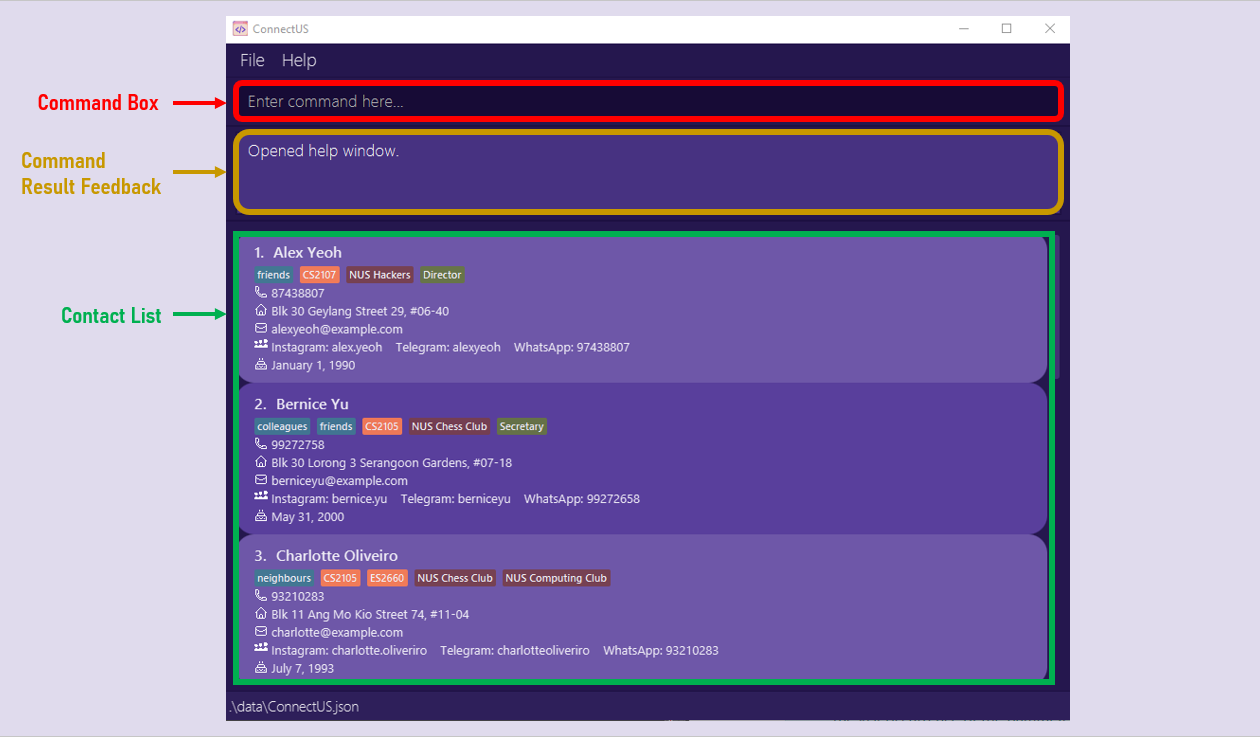
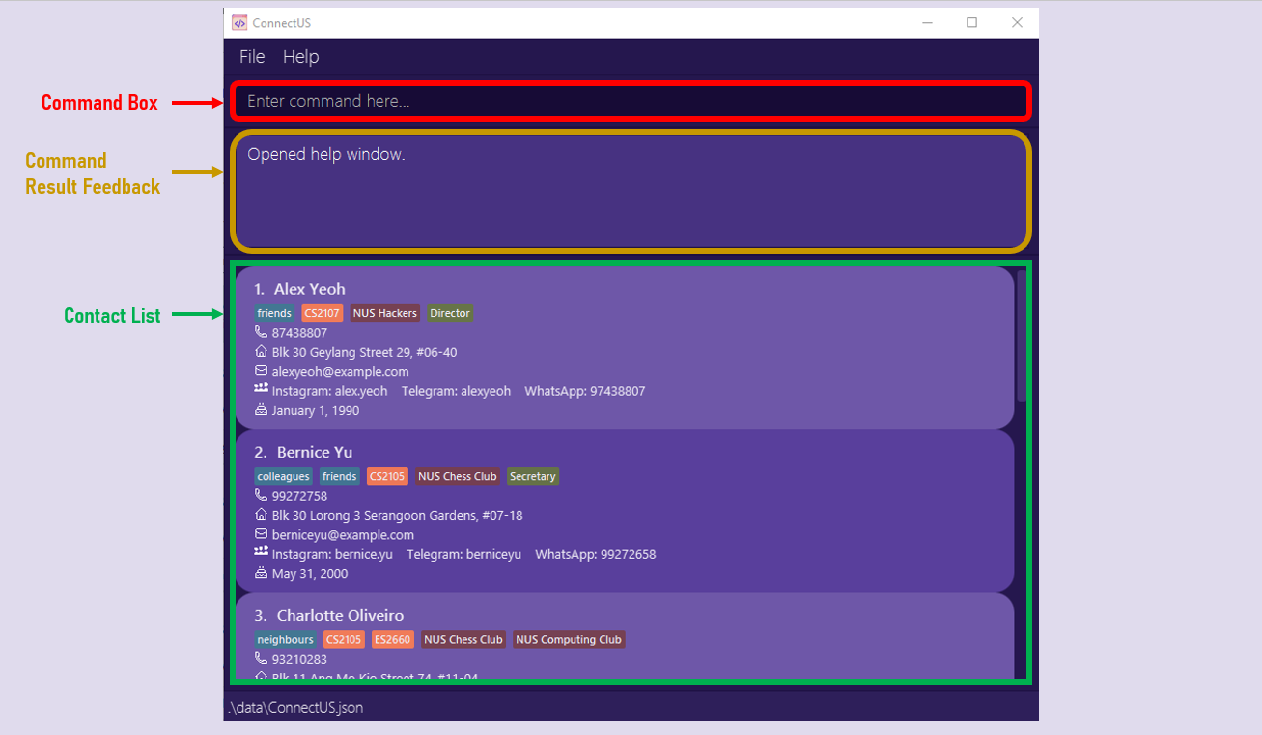
update UI and section 3 of UG

Changed region(s): [[0.0, 0.0, 1.0, 1.0], [0.0, 0.2095, 0.1238, 0.2694], [0.031, 0.1197, 0.1238, 0.1497]]

diff --git a/docs/_sass/minima/_base.scss b/docs/_sass/minima/_base.scss
@@ -105,7 +105,7 @@ li {
  * Headings
  */
 h1, h2, h3, h4, h5, h6 {
-  font-weight: $base-font-weight;
+  font-weight: $bold-font-weight;
 }
 
 

diff --git a/docs/UserGuide.md b/docs/UserGuide.md
@@ -20,6 +20,8 @@ This User Guide will provide you with an in-depth documentation for you to easil
 
 So what are you waiting for? Get ready to **Connect** with others and let **US** handle the rest!
 
+---
+
 # Table of Contents
 
 - [1. Using this guide](#1-using-this-guide)
@@ -28,7 +30,12 @@ So what are you waiting for? Get ready to **Connect** with others and let **US**
 - [2. Installation](#2-installation)
 - [3. Quick Start Guide](#3-quick-start-guide)
   - [3.1 Layout](#31-layout)
+    - [3.1.1 Command Box](#311-command-box)
+    - [3.1.2 Command Result Feedback](#312-command-result-feedback)
+    - [3.1.3 Contact List](#313-contact-list)
   - [3.2 Key Definitions](#32-key-definitions)
+    - [3.2.1 Command](#321-command)
+    - [3.2.2](#322-parameter)
   - [3.3 Command Format](#33-command-format)
   - [3.4 How to Use the CLI](#34-how-to-use-the-cli)
 - [4. Features](#4-features)
@@ -96,6 +103,8 @@ Some special notations are used throughout this guide:
 
 [↑ Back to table of contents](#table-of-contents)
 
+---
+
 # 2. Installation
 
 If you have yet to install ConnectUS, simply follow these steps to set it up:
@@ -118,6 +127,8 @@ Congratulations! You have successfully set up ConnectUS.
 
 [↑ Back to table of contents](#table-of-contents)
 
+---
+
 # 3. Quick Start Guide
 
 ## 3.1 Layout
@@ -126,9 +137,58 @@ Let's take a look at the different components in ConnectUS.<br>
 
 ![Layout](images/Layout.png)
 
+### 3.1.1 Command Box
+
+![CommandBox](images/CommandBox.png)
+
+The command box allows you to enter commands that you wish to perform. For starters, try typing the `help` command and hit enter!
+
+### 3.1.2 Command Result Feedback
+
+![CommandResultFeedback](images/CommandResultFeedback.png)
+
+The command result feedback box will provide you with a feedback message after a command is entered. For example, after typing `help`, you should see the above feedback in your ConnectUS application, along with a new Help Window!
+
+If you enter an unrecognized command or a command with the wrong format, an error message will be shown in this feedback box:<br>
+
+![CommandFeedbackInvalid](images/CommandFeedbackInvalid.png)
+
+You can then use the scroll bar below the feedback box to navigate through the feedback given.
+
+### 3.1.3 Contact List
+
+![ContactList](images/ContactList.png)
+
+The contact list shows the contacts that exist within your ConnectUS with all their registered information fields.
+
+* There is a scroll bar beside the contact list container for you to scroll through your contact list.
+* The index beside the contact name is the contact's index. It is used for certain commands such as `delete`. More details on this can be found in [Features](#4-features).
+* The list of information fields and their details can be found in [Information Fields & Prefixes](#5-information-fields--prefixes). 
+* You can also find a condensed summary table of these information fields in the [Prefix Summary](#8-prefix-summary).
+
 ## 3.2 Key Definitions
 
+### 3.2.1 Command
+
+Commands are actions that you want to perform using ConnectUS. Most commands will require user inputs, otherwise known as [parameters](#322-parameter), for ConnectUS to perform the action.
+
+### 3.2.2 Parameter
+
+Parameters are user inputs that ConnectUS requires to perform certain [commands](#321-command).
+
+Example: `n/NAME`
+
+In this case, `NAME` is the information field that you wish to input. The `n/` prefix must be used for ConnectUS to recognise that you intend on adding a `NAME` to a contact.
+
+* The list of information fields, prefixes and their details can be found in [Information Fields & Prefixes](#5-information-fields--prefixes). 
+* You can also find a condensed summary of these information fields in the [Prefix Summary](#8-prefix-summary).
+
 ## 3.3 Command Format
+
+To use ConnectUS, type the [command](#321-command) along with its [parameters](#322-parameter), if required. You can leave the parameters empty if it is optional (i.e. if it is wrapped in square brackets like this: `help [COMMAND]`).
+
+* The detailed list of commands and their command formats can be found in [Features](#4-features). 
+* You can also find a condensed summary of these commands in the [Command Summary](#7-command-summary).
 
 <div markdown="block" class="alert alert-info">
 
@@ -141,7 +201,7 @@ Let's take a look at the different components in ConnectUS.<br>
   e.g `n/NAME [b/BIRTHDAY]` can be used as `n/John Doe b/14/02/2000` or as `n/John Doe`.
 
 * Items with `…` after them can be used multiple times including zero times.<br>
-  e.g. `[mod/MODULE_CODE]…` can be used as ` ` (i.e. 0 times), `mod/CS2103T` (i.e. 1 time), `mod/CS2103T mod/CS2107` (i.e. 2 times) etc.
+  e.g. `[mod/MODULE]…` can be used as ` ` (i.e. 0 times), `mod/CS2103T` (i.e. 1 time), `mod/CS2103T mod/CS2107` (i.e. 2 times) etc.
 
 * Information fields can be in any order.<br>
   e.g. if the command specifies `n/NAME p/PHONE`, `p/PHONE n/NAME` is also acceptable.
@@ -159,21 +219,45 @@ Let's take a look at the different components in ConnectUS.<br>
 
 ## 3.4 How to Use the CLI
 
-Type the command in the command box and press Enter to execute it. e.g. typing **`help`** and pressing Enter will open the help window.<br>
+To use the [Command Line Interface (CLI)](), you can type a [command](#321-command) in the [Command Box](#311-command-box) and press Enter to execute it.e.g. typing **`help`** and pressing Enter will open the help window.<br>
    ![Command Box](images/ConnectUSCommandBox.png) <br>
-   Some example commands you can try:
 
-   * `list` : Lists all contacts.
+To familiarise yourself with ConnectUS, let's try out the `add` command! The `add` command allows you to add a new contact into the [Contact List](#313-contact-list).
 
-   * `add n/James p/12345678 e/james@example.com a/Clementi tg/itsjameshere b/14/02/2000` : Adds a contact named `James` to ConnectUS.
+**Format:** `add n/NAME [p/PHONE] [a/ADDRESS] [e/EMAIL] [tg/TELEGRAM] [ig/INSTAGRAM] [wa/WHATSAPP] [b/BIRTHDAY] [mod/MODULE]… [cca/CCA]… [major/MAJOR]… [r/REMARK]…`
 
-   * `delete 3` : Deletes the 3rd contact shown in the current list.
+**What does Format mean?**
 
-   * `clear` : Deletes all contacts.
+The first word of every command allows ConnectUS to distinguish different commands.
 
-   * `exit` : Exits the app.
+* `add` tells ConnectUS that this command is to add a new contact
+* Prefixes such as `n/` and `p/` are delimiters that allow ConnectUS to distinguish different parameters from the input that you supply
+* Information fields such as `NAME` and `PHONE` show you what you should place in each portion of the command.
 
-Refer to the [Features](#4-features) below for details of each command.
+Notice how there are square brackets `[]` surrounding certain parameters like in `[p/PHONE]`. This indicates that the parameter is **optional**, i.e. a contact can exist even if it does not have this field.
+
+Other parameters that end with `…` like in `[mod/MODULE]…` indicates that this parameter can be used multiple times.
+
+**Let's test this out!**
+
+Suppose you have a friend whom you call Lineup Larry. His phone number is 91234567, and he stays on campus in UTown Residences. His Telegram username is lineuplarry, takes the modules CS2103T and CS2101, and is in the Art Club.
+
+`NAME`: Lineup Larry<br>
+`PHONE`: 91234567<br>
+`ADDRESS`: UTown Residences<br>
+`TELEGRAM`: lineuplarry<br>
+`MODULE`: CS2103T, CS2101<br>
+`CCA`: Art Club
+
+The command you would enter into the command box would be:<br>
+`add n/Lineup Larry p/91234567 a/UTown Residences tg/lineuplarry mod/CS2103T mod/CS2101 cca/Art Club`
+
+If you have a new contact added in the Contact List as follows:<br>
+![NewContactTutorial](images/NewContactTutorial.png)
+
+Congratulations! You have successfully added your first contact!
+
+There are many other features in ConnectUS. Do refer to the [Features](#4-features) below for details on each feature and command!
 
 [↑ Back to top of section](#3-quick-start-guide)
 
@@ -244,7 +328,7 @@ Format: `add n/NAME [p/PHONE] [a/ADDRESS] [e/EMAIL] [tg/TELEGRAM] [ig/INSTAGRAM]
 
 >Adds a contact to the ConnectUS app.
  
-You can add a contact using the `add` command followed by the parameters (as shown in the format above). While the `NAME` is mandatory, the rest of the fields (i.e. `ADDRESS`, `TELEGRAM`, `MODULE_CODE` etc.) are optional. 
+You can add a contact using the `add` command followed by the parameters (as shown in the format above). While the `NAME` is mandatory, the rest of the fields (i.e. `ADDRESS`, `TELEGRAM`, `MODULE` etc.) are optional. 
 
 <div markdown="span" class="alert alert-primary">:bulb: **Tip:**<br>
 A contact can have any number of tags, modules and CCAs! (including 0)
@@ -331,7 +415,7 @@ The `delete-t` command:
 
 * All indexes (i.e. `PERSON_INDEX`, `REMARK_INDEX`, `MODULE_INDEX`, `CCA_INDEX`, `MAJOR_INDEX`) **must be a positive integer** e.g. 1, 2, 3, …
 * At least one of the optional fields must be provided (i.e. `r/REMARK_INDEX`, `mod/MODULE_INDEX`, `cca/CCA_INDEX`, `MAJOR_INDEX`).
-* The specified tag will be deleted from the person specified at the `PEROSN_INDEX`.
+* The specified tag will be deleted from the contact specified at the `PERSON_INDEX`.
 
 **Example:**
 
@@ -635,5 +719,10 @@ There are four kinds of tags in ConnectUS.
 [↑ Back to top](#table-of-contents)
 
 # 9. Glossary
+
+>#A
+> test<br>
+> test
+
 
 [↑ Back to top](#table-of-contents)
